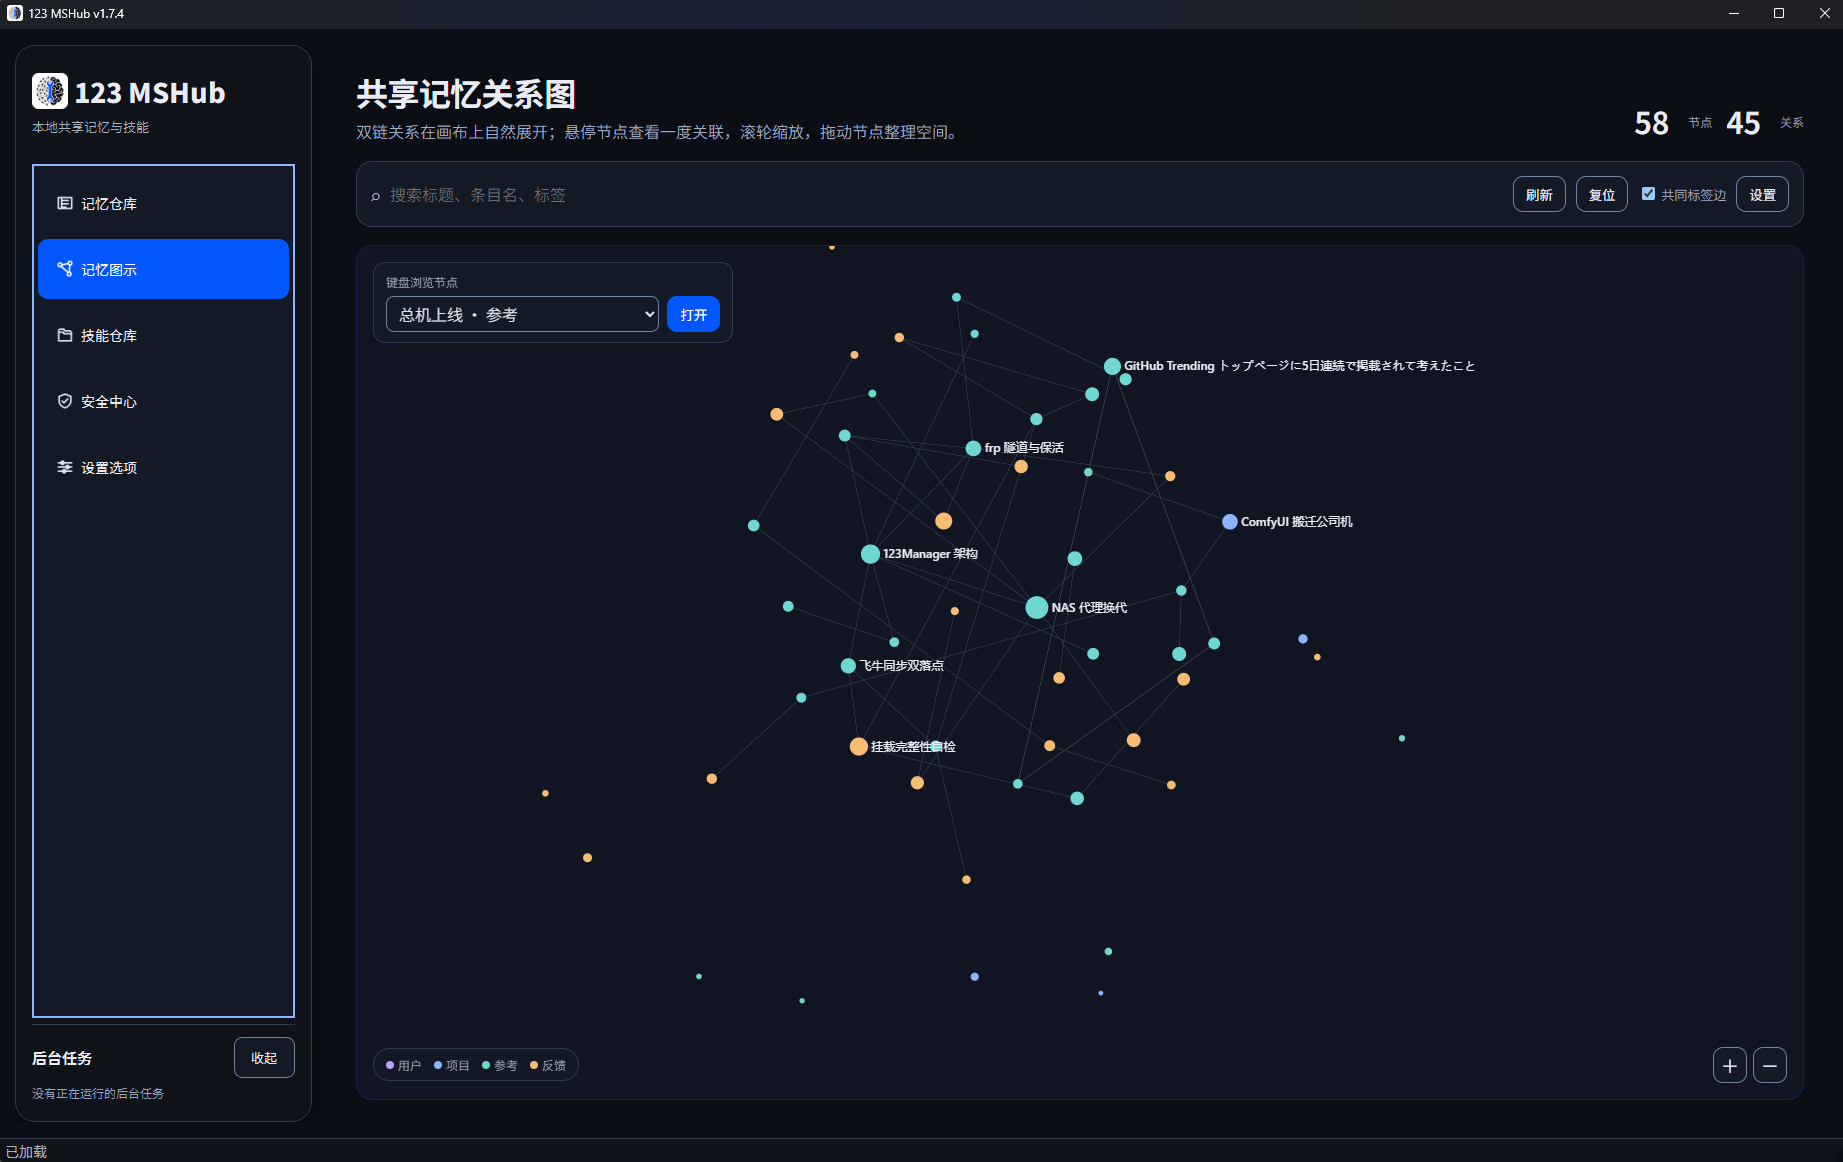
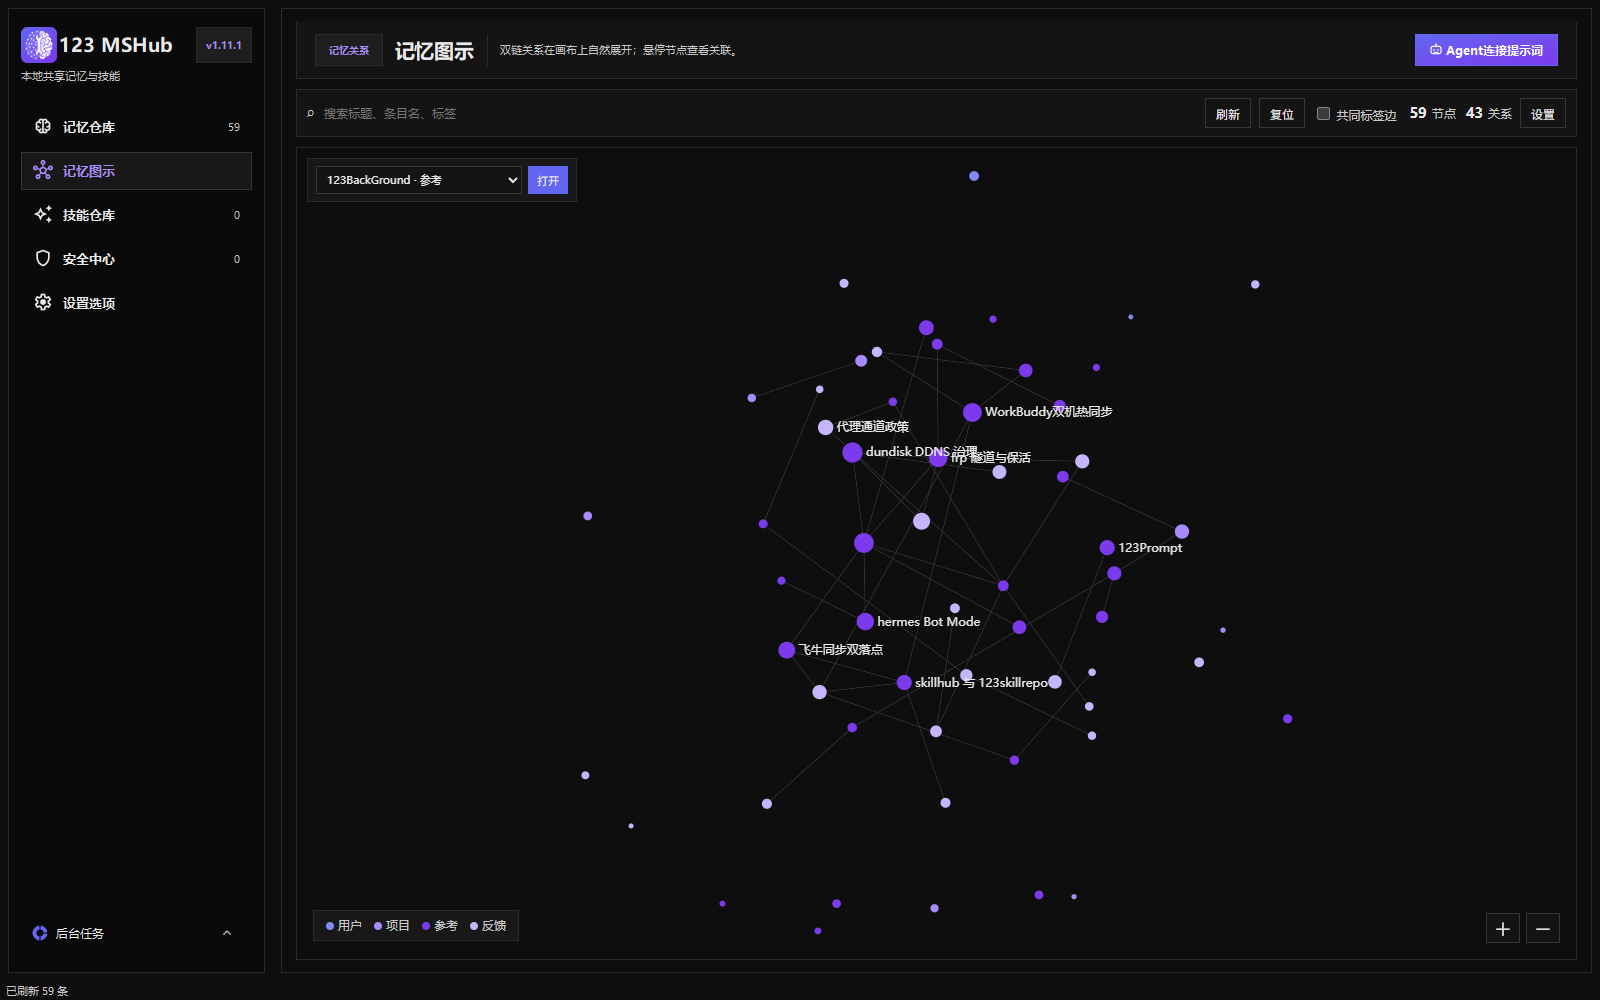
docs: README 更换 v1.11.1 暗色主题五页截图（记忆/图示/技能/安全/设置）
- 五大导航页统一 v1.11.1 暗色主题实机截图（1600x1000，真实配置数据）
- 下线 v1.8.1 时期的亮色旧图（memory-light / skills-light）
- 图示页沿用同名文件替换为新版渲染

diff --git a/README.md b/README.md
@@ -17,11 +17,15 @@ Claude Desktop、Cursor 等）管理两类共享资产：
 读共享记忆、用共享技能库、投递新记忆的完整协议。程序只做管理与审查，
 不管同步——同步、迁移、复制由你自己的工具搞定（网盘、NAS、U 盘都行）。
 
-![记忆图示 · 暗色主题](docs/images/screenshot-graph-dark.png)
+![记忆仓库 · v1.11.1 暗色主题](docs/images/screenshot-memory-dark.png)
 
-![记忆仓库 · 亮色主题](docs/images/screenshot-memory-light.png)
+![记忆图示 · v1.11.1 暗色主题](docs/images/screenshot-graph-dark.png)
 
-![技能仓库 · 亮色主题](docs/images/screenshot-skills-light.png)
+![技能仓库 · v1.11.1 暗色主题](docs/images/screenshot-skills-dark.png)
+
+![安全中心 · v1.11.1 暗色主题](docs/images/screenshot-security-dark.png)
+
+![设置选项 · v1.11.1 暗色主题](docs/images/screenshot-settings-dark.png)
 
 ---
 
